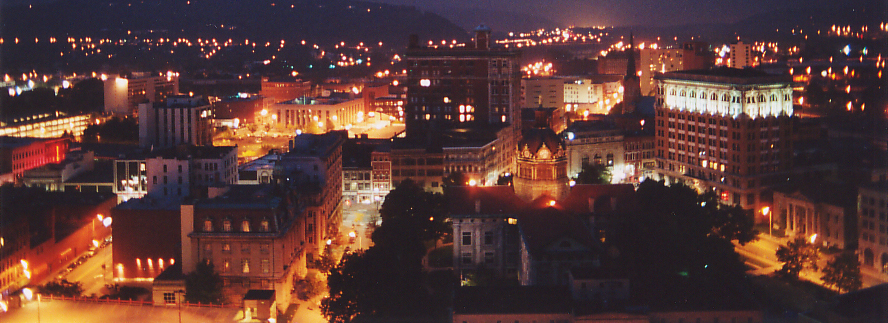
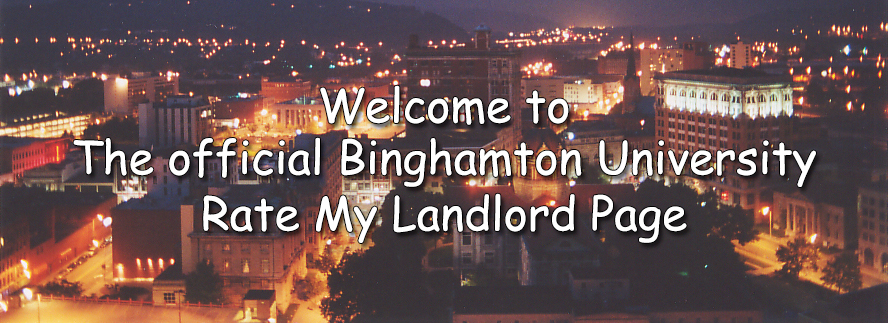
added images

Changed region(s): [[0.0608, 0.4025, 0.9426, 0.5882], [0.2128, 0.5882, 0.7905, 0.774], [0.3345, 0.2477, 0.6689, 0.4025]]

diff --git a/app/assets/stylesheets/landlorddetails.css b/app/assets/stylesheets/landlorddetails.css
@@ -7,8 +7,8 @@
 
 #reviewslist{
 	text-align:center;
-	/*width:500px;*/
 	margin: 0px auto;
+
 }
 
 #listelem{
@@ -52,6 +52,7 @@
 	font-family:"Lucida Sans Unicode", "Lucida Grande", sans-serif;
 	font-size:20px;
 	font-weight: bold;
+  margin-top:-25px;
 }
 
 #review{
